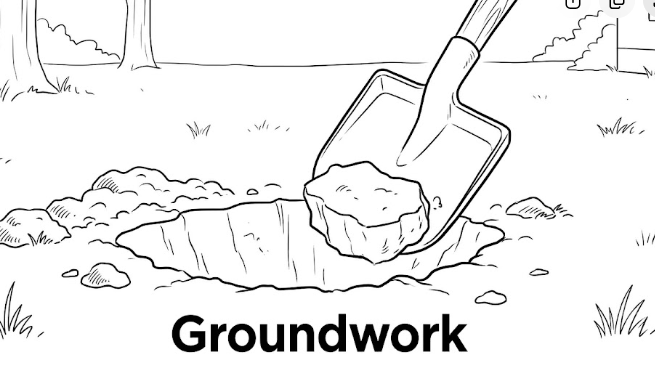
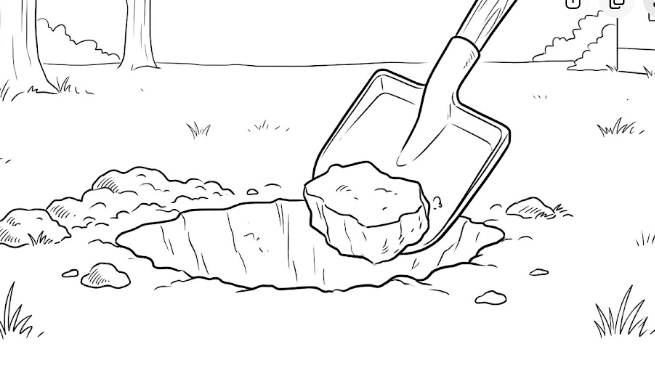
Minor tweaks. Spacing for paragraphs, tweak groundwork image.

Changed region(s): [[0.2443, 0.8324, 0.7328, 0.9514]]

diff --git a/docs/Going_solar.html b/docs/Going_solar.html
@@ -7,7 +7,7 @@
 <meta name="viewport" content="width=device-width, initial-scale=1.0, user-scalable=yes">
 
 
-<title>Going Solar  – Creation Care Task Force</title>
+<title>Going Solar – Creation Care Task Force</title>
 <style>
 code{white-space: pre-wrap;}
 span.smallcaps{font-variant: small-caps;}
@@ -233,12 +233,6 @@ ul.task-list li input[type="checkbox"] {
   <li><a href="#energy-audit" id="toc-energy-audit" class="nav-link active" data-scroll-target="#energy-audit">1. Energy audit</a></li>
   <li><a href="#who-do-you-call" id="toc-who-do-you-call" class="nav-link" data-scroll-target="#who-do-you-call">2. Who do you call?</a></li>
   <li><a href="#groundwork" id="toc-groundwork" class="nav-link" data-scroll-target="#groundwork">3. Groundwork</a></li>
-  <li><a href="#working-with-a-contractor" id="toc-working-with-a-contractor" class="nav-link" data-scroll-target="#working-with-a-contractor">4. Working with a contractor</a></li>
-  <li><a href="#financials" id="toc-financials" class="nav-link" data-scroll-target="#financials">5. Financials</a>
-  <ul class="collapse">
-  <li><a href="#economics-of-the-installation" id="toc-economics-of-the-installation" class="nav-link" data-scroll-target="#economics-of-the-installation">Economics of the installation</a></li>
-  <li><a href="#financing" id="toc-financing" class="nav-link" data-scroll-target="#financing">Financing</a></li>
-  </ul></li>
   </ul>
 </nav>
     </div>
@@ -247,7 +241,7 @@ ul.task-list li input[type="checkbox"] {
 
 <header id="title-block-header" class="quarto-title-block default">
 <div class="quarto-title">
-<h1 class="title">Going Solar <img src="images/Sun.png" style="vertical-align: middle; height: 150px;"></h1>
+<h1 class="title">Going Solar</h1>
 </div>
 
 
@@ -266,7 +260,7 @@ ul.task-list li input[type="checkbox"] {
 
 <section id="energy-audit" class="level2">
 <h2 class="anchored" data-anchor-id="energy-audit">1. Energy audit</h2>
-<p><img src="images/Clipboard.png" class="img-fluid" style="width:25.0%"></p>
+<p><img src="images/Clipboard.png" class="img-fluid"></p>
 <p><strong>The “greenest” kilowatt-hour is the one you never use.</strong></p>
 <p>Before investing in solar panels, doing an <a href="https://creationcare.github.io/Sustainable_Church/energy-audit.html">energy audit</a> can significantly reduce your electricity usage, and lead to designing a smaller, more affordable system.</p>
 </section>
@@ -277,34 +271,17 @@ ul.task-list li input[type="checkbox"] {
 </section>
 <section id="groundwork" class="level2">
 <h2 class="anchored" data-anchor-id="groundwork">3. Groundwork</h2>
-<p><img src="images/Groundwork.png" class="img-fluid" style="width:25.0%"></p>
+<p><img src="images/Groundwork.png" class="img-fluid"></p>
 <p>To begin the analysis, you will need the following:</p>
 <ol type="1">
 <li><p>12 months worth of electric bills. This will be the basis for analyzing potential savings, and will also allow you to assess the accuracy of the model used to determine savings.</p></li>
-<li><p>Does your local utility offer or allow “net metering” of some sort? This can have a large impact on the size of the system you should build.</p>
+<li><p>Does your local utility offer or allow “net metering” of some sort? This can have a large impact on how large a system you should build.</p>
 <p>For example, TXU, Green Mountain, Octopus, Reliant, and Gexa are some of the larger providers that have some sort of power buyback program - though all are different. Austin Energy provides true 1:1 net metering. If you are served by a co-op, then your choices may be very limited.</p></li>
-<li><p>Consider what a suitable location for solar panels might be. The ideal location is a sloped roof of about 20 degrees, facing south; but a flat roof, or a roof whose slope faces some other direction can also be used. A ground mounted system is also feasible, if there is sufficient land to place it on. For perhaps 50% more up-front expense, a parking lot could be covered. The location should see little to no shade during the day, especially around mid-day.</p></li>
+<li><p>Consider what a suitable location for solar panels might be. The ideal location is a sloped roof of about 20 degrees, facing south; but a flat roof, or a roof whose slope faces some other direction can also be used. A ground mounted system is also feasible, if there is sufficient land to place it on. For perhaps 50% more up-front expense, a parking lot could be covered. And the location should see little to no shade during the day, especially around mid-day.</p></li>
 <li><p>If you have “smart meters”, then you should be able to download usage data for every 15 minutes, which can tell you a lot more about how your usage peaks and the potential for savings. Learn more at the <a href="https://www.smartmetertexas.com/home">Smart Meter</a> website.</p></li>
 </ol>
-</section>
-<section id="working-with-a-contractor" class="level2">
-<h2 class="anchored" data-anchor-id="working-with-a-contractor">4. Working with a contractor</h2>
-<p><img src="images/Contractor.png" class="img-fluid" style="width:25.0%"></p>
-<p>If net metering is not available for you, then make certain that the design your contractor develops does not produce more power than the maximum usage you have seen during the year. This is where the 15 minute usage data can become extremely useful. Ask how the usage information was factored into the analysis. For many, the highest usage should be on Sundays, with lower usage during the week, unless you have a school or other weekday usage. With net metering, there is a real opportunity to sell power during the week. In calculating the economics, a key input is how much electric rates are expected to rise over the life of the system - which should be about 25 years. Based on the projections from <a href="https://tepri.org/2025/12/affordabilitypaper/">TEPRI</a>, a reasonable projection is for rates to increase by one ¢ per kWh for about 10 years, and then stay flat.</p>
-</section>
-<section id="financials" class="level2">
-<h2 class="anchored" data-anchor-id="financials">5. Financials</h2>
-<p><img src="images/Sun_dollars.png" class="img-fluid" style="width:25.0%"></p>
-<section id="economics-of-the-installation" class="level3">
-<h3 class="anchored" data-anchor-id="economics-of-the-installation">Economics of the installation</h3>
-<p>When the plan is done, it should have an undiscounted payback period of less than 12-15 years, and hopefully quite a bit lower than that. You should also qualify for the 30% “direct pay” incentive payments from the IRS for a non-profit. Similarly, the ROI (Return On Investment) should be greater than about 5%, and perhaps even into double digits.</p>
-</section>
-<section id="financing" class="level3">
-<h3 class="anchored" data-anchor-id="financing">Financing</h3>
-<p>The Diocese generally tries to discourage congregations from acquiring loans that put a lien on the church property, so that avenue is probably not feasible. However, there are opportunities for financing where the lien is placed on the solar panels themselves, and that is entirely acceptable. (I need a reference here)</p>
 
 
-</section>
 </section>
 
 </main> <!-- /main -->
